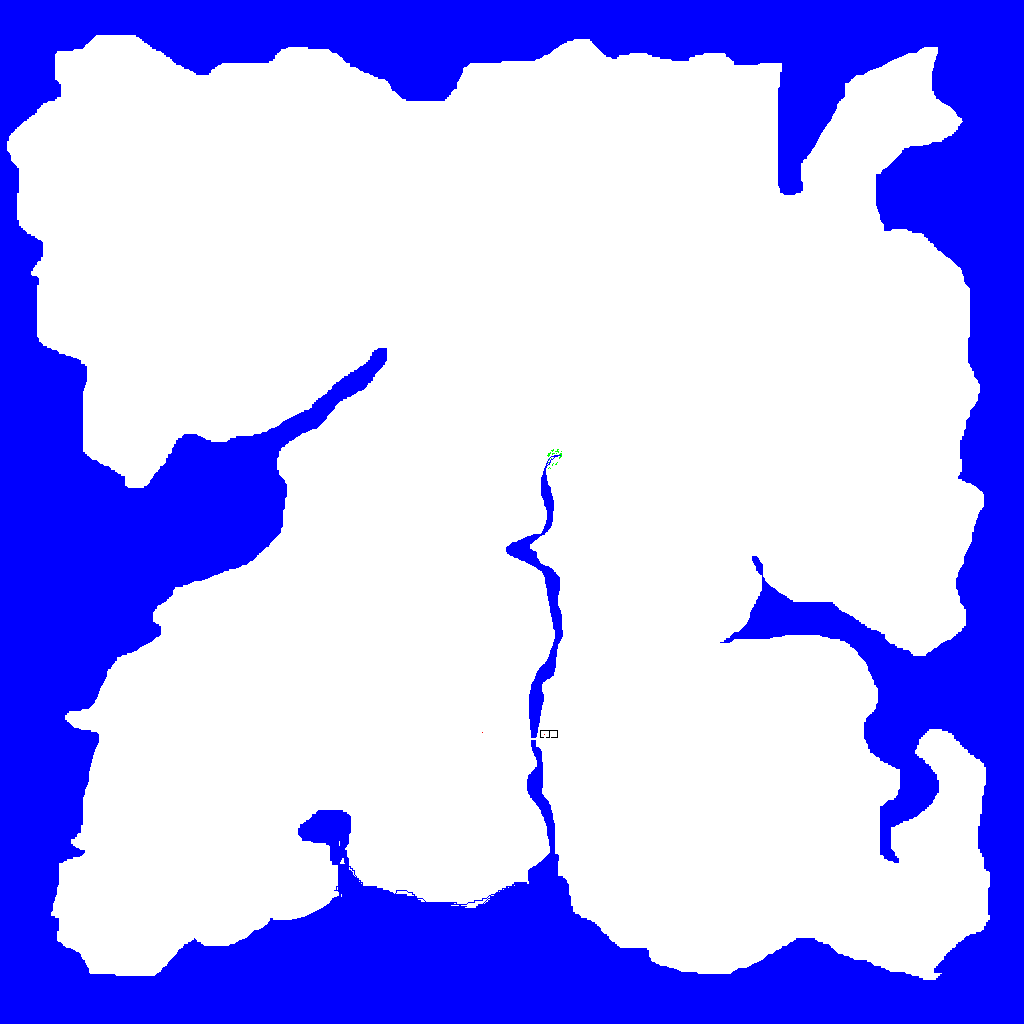
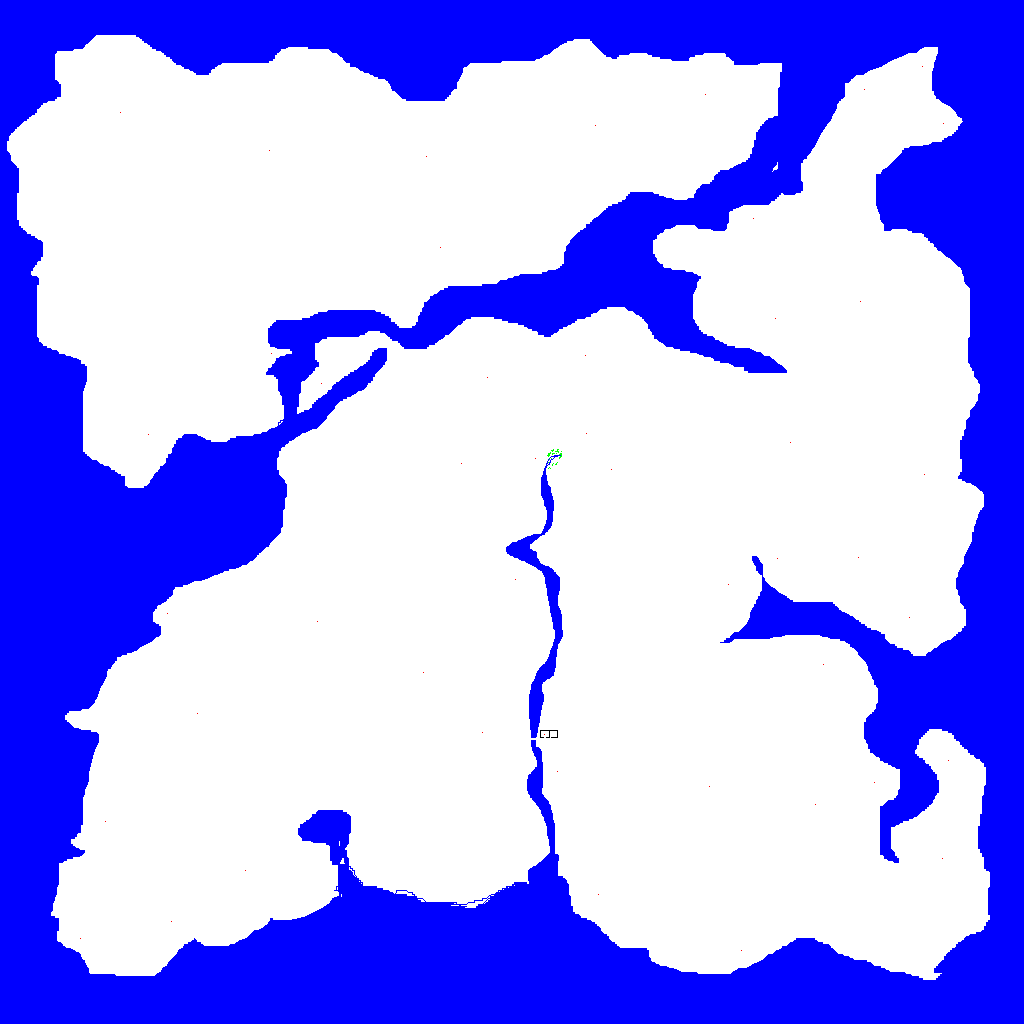
rendering mini map (incorrectly)

Changed region(s): [[0.25, 0.0938, 0.7812, 0.4062]]

diff --git a/engine/engine.cpp b/engine/engine.cpp
@@ -61,6 +61,7 @@ Engine::Engine( Screenport* port, const gamedb::Reader* database, Map* m )
 	ShaderManager::Instance()->AddDeviceLossHandler( this );
 	particleSystem = new ParticleSystem();
 	engineShaders = new EngineShaders();
+	miniMapRenderTarget = 0;
 }
 
 
@@ -70,20 +71,11 @@ Engine::~Engine()
 	ShaderManager::Instance()->RemoveDeviceLossHandler( this );
 	delete renderQueue;
 	delete spaceTree;
+	delete miniMapRenderTarget;
 	for( int i=0; i<RT_COUNT; ++i )
 		delete renderTarget[i];
 	delete engineShaders;
 }
-
-
-/*
-void Engine::SetMap( Map* m )
-{
-	map = m;
-	delete spaceTree;
-	spaceTree = new SpaceTree( -0.1f, 2.5f, Max( m->Width(), m->Height() ) );
-}
-*/
 
 
 void Engine::DeviceLoss()
@@ -92,6 +84,8 @@ void Engine::DeviceLoss()
 		delete renderTarget[i];
 		renderTarget[i] = 0;
 	}
+	delete miniMapRenderTarget;
+	miniMapRenderTarget = 0;
 }
 
 
@@ -187,9 +181,52 @@ void Engine::FreeModel( Model* model )
 }
 
 
+void Engine::CreateMiniMap()
+{
+	delete miniMapRenderTarget;
+	miniMapRenderTarget = new RenderTarget( 256, 256, false );
+	miniMapRenderTarget->SetActive( true, this );
+
+	miniMapRenderTarget->screenport->SetPerspective();
+
+	float width  = (float)map->Width();
+	float height = (float)map->Height();
+
+	float theta = ToRadian( 45.f/2.0f );
+	float ratio = 1.0f;
+
+	Camera c;
+	float h = (height/2.f) / (tanf(theta)*ratio);
+	c.SetYRotation( 0 );
+	c.SetTilt( -90.0f );
+	c.SetPosWC( width/2.0f, h, height/2.0f );
+
+	Matrix4 view;
+	miniMapRenderTarget->screenport->SetView( c.ViewMatrix() );
+
+	Color3F color = { 1, 1, 1 };
+	map->Draw3D( color, GPUShader::STENCIL_OFF );
+
+	miniMapRenderTarget->SetActive( false, this );
+}
+
+
+Texture* Engine::GetMiniMapTexture()
+{
+	if ( miniMapRenderTarget ) {
+		return miniMapRenderTarget->GetTexture();
+	}
+	return 0;
+}
+
+
 void Engine::Draw( U32 deltaTime )
 {
 	GRINLIZ_PERFTRACK;
+
+	if ( map && !miniMapRenderTarget ) {
+		CreateMiniMap();
+	}
 
 	// -------- Camera & Frustum -------- //
 	screenport->SetView( camera.ViewMatrix() );	// Draw the camera

diff --git a/scenes/navtest2scene.cpp b/scenes/navtest2scene.cpp
@@ -29,6 +29,10 @@ NavTest2Scene::NavTest2Scene( LumosGame* game, const NavTest2SceneData* _data ) 
 	data = _data;
 
 	LoadMap();
+
+	RenderAtom atom;
+	minimap.Init( &gamui2D, atom, false );
+	minimap.SetSize( 200, 200 );
 }
 
 
@@ -44,6 +48,9 @@ void NavTest2Scene::Resize()
 {
 	LumosGame* lumosGame = static_cast<LumosGame*>( game );
 	lumosGame->PositionStd( &okay, 0 );
+
+	const Screenport& port = lumosGame->GetScreenport();
+	minimap.SetPos( port.UIWidth()-200, 0 );
 }
 
 
@@ -94,7 +101,7 @@ void NavTest2Scene::CreateChit( const Vector2I& p )
 
 	chit->GetSpatialComponent()->SetPosition( (float)p.x+0.5f, 0, (float)p.y+0.5f );
 	chit->AddListener( this );
-	//OnChitMsg( chit, "PathMoveComponent", PathMoveComponent::MSG_DESTINATION_REACHED );
+	OnChitMsg( chit, "PathMoveComponent", PathMoveComponent::MSG_DESTINATION_REACHED );
 	++nChits;
 }
 
@@ -148,6 +155,10 @@ void NavTest2Scene::DoTick( U32 deltaTime )
 		CreateChit( waypoints[random.Rand(waypoints.Size()) ] );
 		creationTick = 0;
 	}
+	RenderAtom atom( (const void*)UIRenderer::RENDERSTATE_UI_NORMAL_OPAQUE, 
+					 (const void*)engine->GetMiniMapTexture(), 
+					 0, 0, 1, 1 );
+	minimap.SetAtom( atom );
 }
 
 

diff --git a/engine/engine.h b/engine/engine.h
@@ -60,7 +60,7 @@ class EngineShaders;
 		
 */
 
-class Engine : public IDeviceLossHandler
+class Engine :	public IDeviceLossHandler
 {
 public:
 	Engine( Screenport* screenport, const gamedb::Reader* database, Map* map );
@@ -88,8 +88,8 @@ public:
 	Model* AllocModel( const ModelResource* );
 	void FreeModel( Model* );
 
-	//void SetMap( Map* m );
 	Map* GetMap()						{ return map; }
+	Texture* GetMiniMapTexture();
 
 	const RenderQueue* GetRenderQueue()	{ return renderQueue; }
 
@@ -136,8 +136,9 @@ private:
 	void CalcCameraRotation( grinliz::Matrix4* );
 
 	void Blur();
-	void PushShadowSwizzleMatrix( GPUShader* );
-	void PushLightSwizzleMatrix( GPUShader* );
+//	void PushShadowSwizzleMatrix( GPUShader* );
+//	void PushLightSwizzleMatrix( GPUShader* );
+	void CreateMiniMap();
 
 	Screenport* screenport;
 	float	initZoom;
@@ -155,6 +156,7 @@ private:
 		RT_COUNT
 	};
 	RenderTarget* renderTarget[RT_COUNT];
+	RenderTarget* miniMapRenderTarget;
 
 	EngineShaders* engineShaders;
 };

diff --git a/engine/renderqueue.cpp b/engine/renderqueue.cpp
@@ -203,7 +203,6 @@ void RenderQueue::Submit( GPUShader* overRideShader, int required, int excluded,
 				for( int k=start; k<end; ++k ) {
 					const Item* item = itemArr[k];
 					Model* model = item->model;
-					//}
 
 					shader->PushMatrix( GPUShader::MODELVIEW_MATRIX );
 					if ( xform ) {
@@ -211,10 +210,6 @@ void RenderQueue::Submit( GPUShader* overRideShader, int required, int excluded,
 					}
 					shader->MultMatrix( GPUShader::MODELVIEW_MATRIX, model->XForm() );
 					shader->SetParam( item->param );
-					//if ( StrEqual( model->GetResource()->header.name.c_str(), "hornet" ) ) {
-					//	shader->TopMatrix( GPUShader::MODELVIEW_MATRIX ).Dump();
-					//	GLOUTPUT(( "\n" ));
-					//}
 					shader->Draw();
 					shader->PopMatrix( GPUShader::MODELVIEW_MATRIX );
 				}

diff --git a/scenes/titlescene.cpp b/scenes/titlescene.cpp
@@ -71,7 +71,7 @@ void TitleScene::ItemTapped( const gamui::UIItem* item )
 		game->PushScene( LumosGame::SCENE_NAVTEST2, new NavTest2SceneData( "./res/testnav.png", 100 ) );
 	}
 	else if ( item == &testScene[TEST_NAV_WORLD] ) {
-		game->PushScene( LumosGame::SCENE_NAVTEST2, new NavTest2SceneData( "./res/testnav1024.png", 2 ) );
+		game->PushScene( LumosGame::SCENE_NAVTEST2, new NavTest2SceneData( "./res/testnav1024.png", 10 ) );
 	}
 	else if ( item == &testScene[TEST_NOISE] ) {
 		game->PushScene( LumosGame::SCENE_NOISETEST, 0 );

diff --git a/game/worldmap.h b/game/worldmap.h
@@ -2,6 +2,7 @@
 #define LUMOS_WORLD_MAP_INCLUDED
 
 #include "../engine/map.h"
+#include "../engine/rendertarget.h"
 #include "../micropather/micropather.h"
 #include "../grinliz/glrectangle.h"
 #include "../grinliz/glcontainer.h"

diff --git a/scenes/navtest2scene.h b/scenes/navtest2scene.h
@@ -42,6 +42,7 @@ private:
 	void CreateChit( const grinliz::Vector2I& p );
 
 	gamui::PushButton okay;
+	gamui::Image minimap;
 
 	Engine* engine;
 	WorldMap* map;
